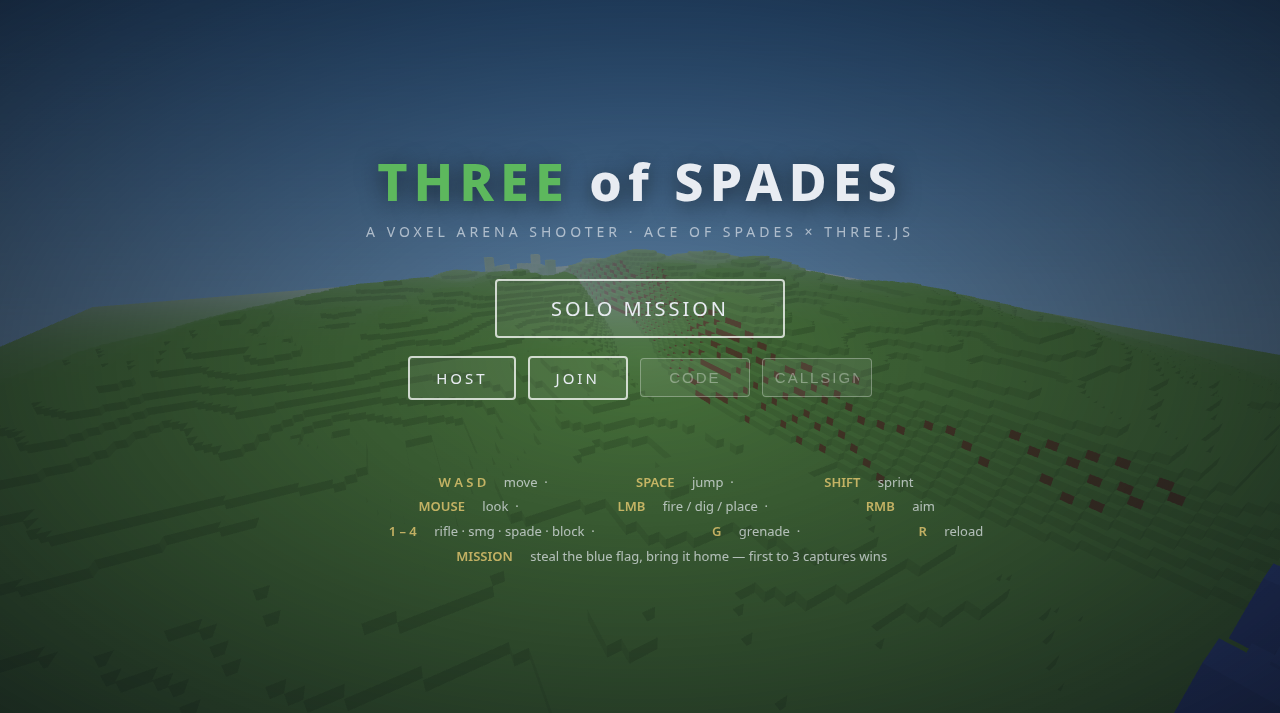
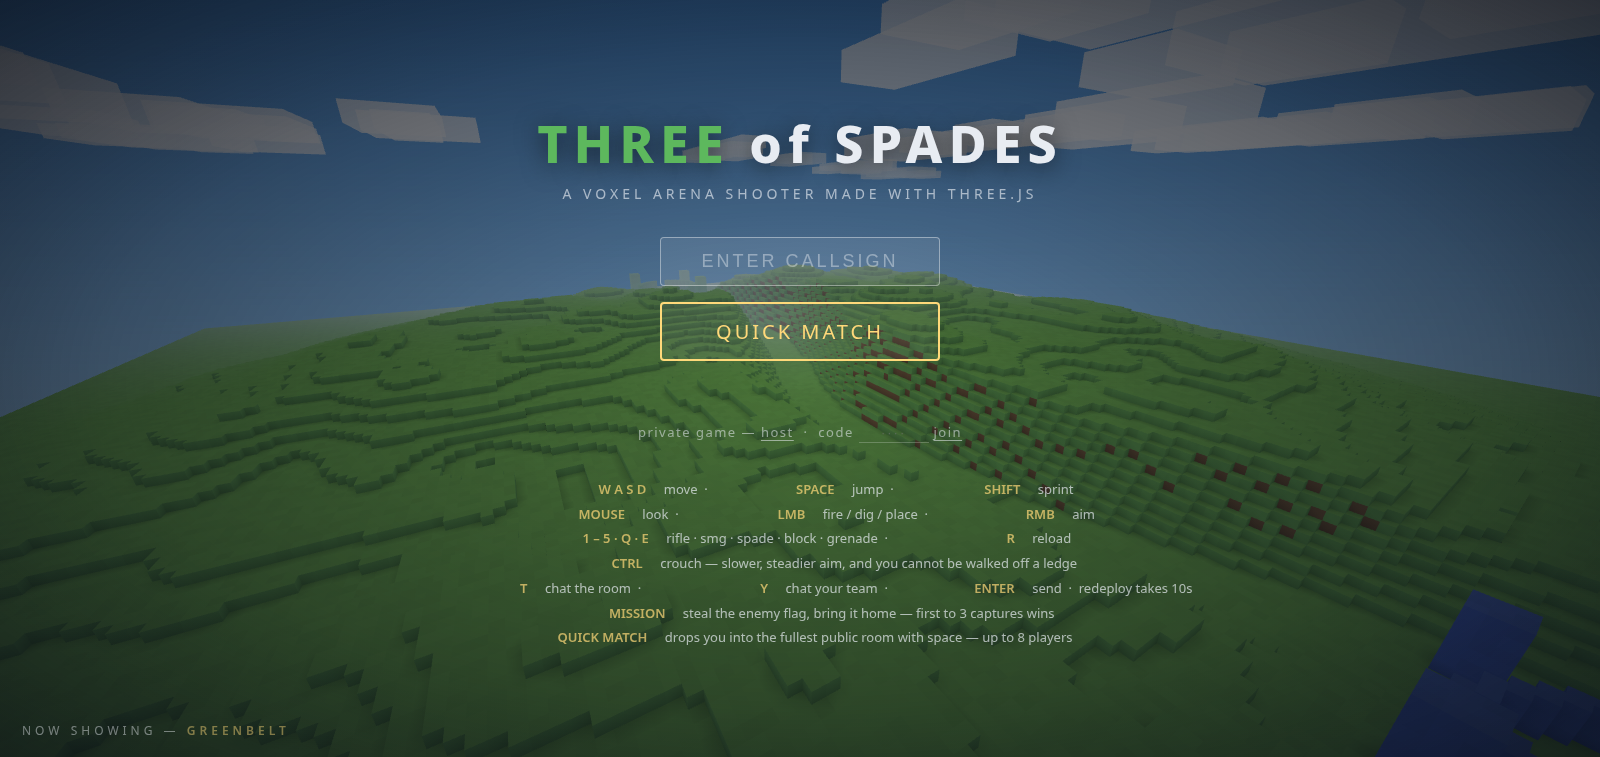
Bots redeploy in 10s too + fresh README screenshots

diff --git a/src/game.js b/src/game.js
@@ -11,6 +11,7 @@ import { Body, disposeObject } from './entities.js';
 import { Avatar } from './avatar.js';
 
 const WIN_SCORE = 3;
+const REDEPLOY = 10; // seconds back at base after dying — humans and bots alike
 // A terrain block breaks after BLOCK_HP of weapon damage — gunfire hurts
 // blocks exactly as much as it hurts people (rifle 55 -> 3 shots, SMG 22 ->
 // 7 shots, bot carbine 16 -> 10). The spade still digs in one hit.
@@ -574,11 +575,10 @@ export class Game {
     if (killer && killer !== victim) hud.feed(`${nameSpan(killer)} ⚔ ${nameSpan(victim)}`);
     else hud.feed(`${nameSpan(victim)} blew up`);
 
-    // Humans wait out a real redeploy timer; bots cycle faster to keep the
-    // field populated.
-    const t = (victim === this.player || victim.isRemote) ? 10 : 4;
-    this.respawnTimers.set(victim, t);
-    if (victim === this.player) hud.respawn(t);
+    // Everyone waits out the same redeploy timer — bots too, or a raid on
+    // the enemy base would face a fresh wave every few seconds.
+    this.respawnTimers.set(victim, REDEPLOY);
+    if (victim === this.player) hud.respawn(REDEPLOY);
   }
 
   // ---------------- block tools ----------------
@@ -865,7 +865,7 @@ export class Game {
         bot.alive = false;
         bot.deadT = 1.5; // corpse already finished tumbling on our screen
         bot.parts.group.visible = false;
-        this.respawnTimers.set(bot, 4);
+        this.respawnTimers.set(bot, REDEPLOY);
       }
       this.bots.push(bot);
     }
@@ -882,7 +882,7 @@ export class Game {
     }
     // A death mid-handover still gets its respawn; a finished match still
     // gets its rotation.
-    if (!this.player.alive) this.respawnTimers.set(this.player, 4);
+    if (!this.player.alive) this.respawnTimers.set(this.player, REDEPLOY);
     if (this.over) this._rotateT = 2;
     // Stragglers get a minute to find the new room before their roster entry
     // lapses and any later knock is treated as a fresh join.
@@ -901,7 +901,7 @@ export class Game {
     proxy.tool = tool;
     proxy.blocks = blocks;
     proxy.crouched = !!crouch;
-    if (!proxy.alive) this.respawnTimers.set(proxy, 4);
+    if (!proxy.alive) this.respawnTimers.set(proxy, REDEPLOY);
     this.remote.set(id, proxy);
     return proxy;
   }

diff --git a/README.md b/README.md
@@ -90,6 +90,10 @@ seed:
 | **PINEFALL** | Dense pine forest cut by a wide winding creek. Short sightlines, flanking routes, ambush country. |
 | **DUNES** | Desert mesas and ridged dunes. Long sniper lanes between sheer rock towers, ruins at midfield. |
 
+| ![GREENBELT](docs/map-greenbelt.png) | ![BEACHHEAD](docs/map-beachhead.png) |
+|---|---|
+| ![PINEFALL](docs/map-pinefall.png) | ![DUNES](docs/map-dunes.png) |
+
 The home screen shows them off itself — the menu backdrop is a slow orbit that
 cycles through all four maps, thirty seconds apiece, each with a fresh seed.
 
@@ -117,8 +121,8 @@ taller than one block (single steps still pass, so slopes stay walkable) ·
 `LMB` fire/dig/place/throw · `RMB` aim · `1–5` / `Q`·`E` select tool (the
 grenade is slot 5 — three per life, one trickles back every 12 s) ·
 `R` reload · `T` / `Y` chat the room / your team · `Esc` pause (in a match:
-resume or back to the main menu). Death costs you **10 seconds** on the
-redeploy timer — make them count.
+resume or back to the main menu). Death costs **10 seconds** on the redeploy
+timer — for humans *and* bots, so clearing a base actually clears it.
 
 ## Tech notes
 
